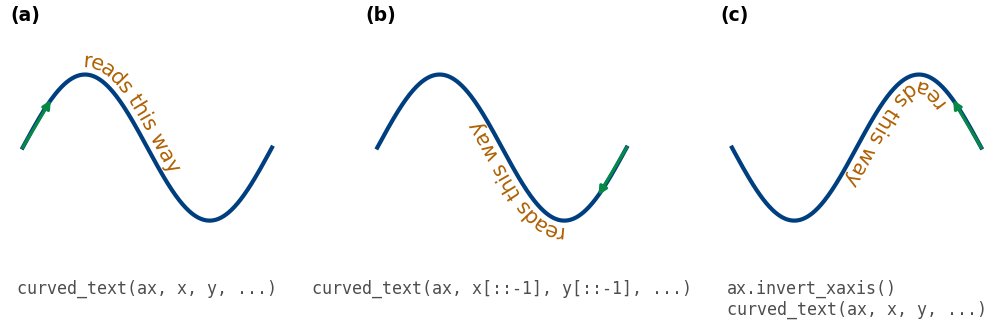
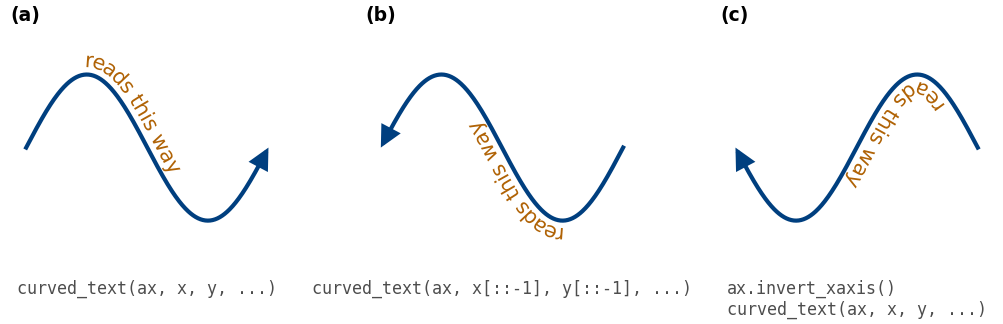
End each curve in 17 with an arrowhead in its own colour instead of a separate green arrow

diff --git a/examples/example_17_direction_of_travel.py b/examples/example_17_direction_of_travel.py
@@ -1,14 +1,14 @@
 """Why a label reads upside down: the direction of travel.
 
 Text reads in the order of the curve's points as they appear on screen, and
-an arrow on each curve marks that direction from its first point. The same
-sine, labelled three ways: (a) the points from left to right, upright; (b)
-the arrays reversed, so the curve runs from right to left and the label reads
-upside down; (c) the points from left to right on an inverted x axis, which
-also puts them right to left on screen. ``pos`` counts from the first point
-and ``offset`` turns with the direction too, so the label also moves along
-and across the curve. Reversing the arrays of a curve that runs from right to
-left on screen turns its label upright.
+each curve ends in an arrowhead at its last point, so it shows that direction
+itself. The same sine, labelled three ways: (a) the points from left to
+right, upright; (b) the arrays reversed, so the curve runs from right to left
+and the label reads upside down; (c) the points from left to right on an
+inverted x axis, which also puts them right to left on screen. ``pos`` counts
+from the first point and ``offset`` turns with the direction too, so the label
+also moves along and across the curve. Reversing the arrays of a curve that
+runs from right to left on screen turns its label upright.
 """
 from __future__ import annotations
 
@@ -17,26 +17,24 @@ import os
 import numpy as np
 
 from curved_text import curved_text
-from _style import (CURVE_COLOR, LABEL_COLOR, MARK_COLOR, bare, caption,
-                    figure, panel_letters, save)
+from _style import (CURVE_COLOR, LABEL_COLOR, bare, caption, figure,
+                    panel_letters, save)
+
+# How many points the arrowhead spans back from the last one. The plotted line
+# stops a few points short of the end, under the head: matplotlib draws the
+# head's tip slightly short of the point it aims at, and the line would show
+# past it.
+HEAD_POINTS = 8
+LINE_STOP = 5
 
 
-# How many points the direction arrow spans from the first one: a short
-# chord, well clear of the label.
-ARROW_POINTS = 45
-
-
-def _direction_arrow(ax, x, y):
-    """An arrow from the curve's first point, in the direction the points run.
-
-    It is a reference mark, so it sits above the label, as ``anchor_mark``
-    does, but without a halo, which would erase the curve it runs along.
-    """
-    tip = (x[ARROW_POINTS], y[ARROW_POINTS])
-    ax.annotate("", xy=tip, xytext=(x[0], y[0]),
-                arrowprops={"arrowstyle": "-|>", "color": MARK_COLOR,
-                            "linewidth": 1.5, "shrinkA": 0, "shrinkB": 0},
-                zorder=10)
+def _curve_with_arrowhead(ax, x, y):
+    """The curve, ending in an arrowhead at its last point."""
+    ax.plot(x[:-LINE_STOP], y[:-LINE_STOP], color=CURVE_COLOR, linewidth=2)
+    ax.annotate("", xy=(x[-1], y[-1]), xytext=(x[-HEAD_POINTS], y[-HEAD_POINTS]),
+                arrowprops={"arrowstyle": "-|>,head_length=0.7,head_width=0.35",
+                            "color": CURVE_COLOR, "linewidth": 0,
+                            "shrinkA": 0, "shrinkB": 0, "mutation_scale": 15})
 
 
 def make(images_dir):
@@ -52,12 +50,12 @@ def make(images_dir):
     ]
     for ax, (cx, cy, invert, call) in zip(axes, panels):
         bare(ax)
-        ax.plot(x, y, color=CURVE_COLOR, linewidth=2)
-        ax.set_xlim(-0.3, 2 * np.pi + 0.3)
+        _curve_with_arrowhead(ax, cx, cy)
+        # Room at the ends for the arrowhead.
+        ax.set_xlim(-0.4, 2 * np.pi + 0.4)
         ax.set_ylim(-1.6, 1.6)
         if invert:
             ax.invert_xaxis()
-        _direction_arrow(ax, cx, cy)
         curved_text(ax, cx, cy, "reads this way", pos=0.4, anchor="center",
                     offset=7.0, color=LABEL_COLOR, fontsize=10)
         caption(ax, call)

diff --git a/examples/README.md b/examples/README.md
@@ -206,7 +206,7 @@ curved_text(ax, x, y, "winds", pos=0.5, anchor="center", offset=-13.0,
 ### Why a label reads upside down: direction of travel
 
 A label reads in the order of its curve's points as they appear on screen; the
-arrow on each curve marks that direction from the first point. On the same
+arrowhead at the end of each curve marks that direction. On the same
 sine, (a) the points run from left to right and the label is upright; (b) the
 arrays are reversed, so the curve runs from right to left and the label reads
 upside down; (c) an inverted x axis puts the points right to left on screen
